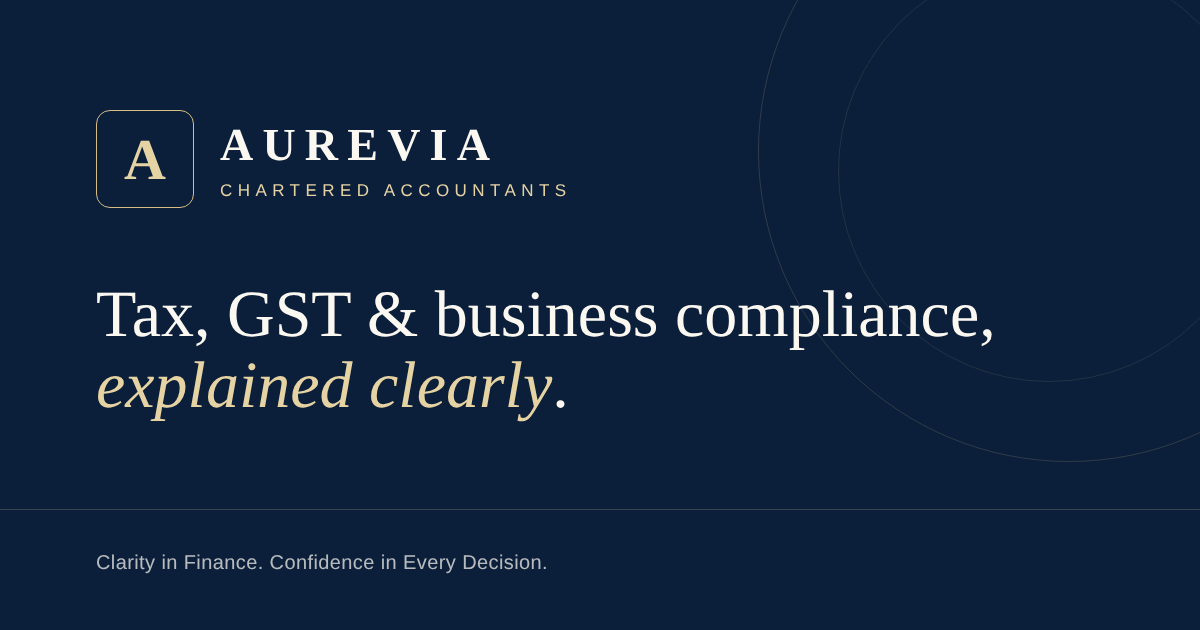
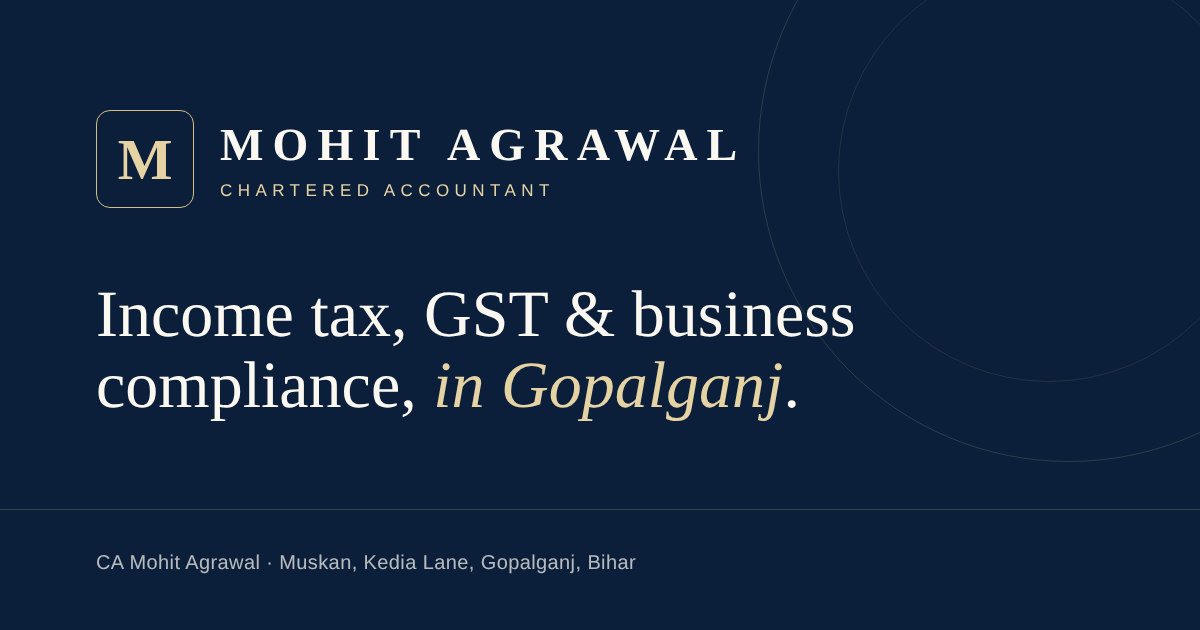
Adapt website for CA Mohit Agrawal, Gopalganj
Replace the AUREVIA placeholder identity with the firm's details from
its Google Business listing:

- Name, logo monogram (M), wordmark, tagline and copyright holder.
- Office address, Plus code map link, phone (+91 62990 33454) and the
  closing time (6:30 pm).
- Partner profile name. Qualifications and membership stay unpublished
  until verified.
- Favicon, Open Graph image and package name.

Still placeholders, so the WhatsApp buttons stay disabled in production:
the WhatsApp number (the listed number may be a landline), email, the
full weekly hours, prices (sample) and the service list. Google reviews
and the rating are intentionally not shown.

Claude-Session: https://claude.ai/code/session_01A1a9f2uhDVodubUkXH6cKA

diff --git a/src/config/siteConfig.js b/src/config/siteConfig.js
@@ -7,31 +7,34 @@
  *   '919876543210'. Any value containing letters (such as the 'XX' placeholder) counts as not configured.
  */
 export const siteConfig = {
-  firmName: 'AUREVIA Chartered Accountants',
-  shortName: 'AUREVIA',
-  tagline: 'Clarity in Finance. Confidence in Every Decision.',
+  firmName: 'CA Mohit Agrawal',
+  shortName: 'Mohit Agrawal',
+  tagline: 'Chartered Accountant · Gopalganj, Bihar',
   description:
-    'AUREVIA Chartered Accountants supports individuals, entrepreneurs and growing businesses with income tax, GST, accounting, TDS, business compliance and startup registrations.',
+    'CA Mohit Agrawal, Chartered Accountant in Gopalganj, Bihar, supports individuals and businesses with income tax, GST, accounting, TDS and business compliance.',
 
   logo: {
-    monogram: 'A',
-    wordmark: 'AUREVIA',
-    subtitle: 'Chartered Accountants',
+    monogram: 'M',
+    wordmark: 'MOHIT AGRAWAL',
+    subtitle: 'Chartered Accountant',
     // Optional image logo (for example '/logo.svg' placed in /public). When set, it replaces the monogram.
     image: '',
   },
 
+  // Not yet confirmed. The number listed on Google is a landline-style number, which may not be on WhatsApp.
   whatsappNumber: '91XXXXXXXXXX',
-  phone: '',
+  // Shown as listed on the Google Business profile (062990 33454), written in international format.
+  phone: '+91 62990 33454',
   email: '',
-  city: '',
-  officeAddress: '',
+  city: 'Gopalganj, Bihar',
+  officeAddress: 'Muskan, Kedia Lane, Town Thana, Gopalganj, Bihar 841428',
   // Canonical base URL without a trailing slash, for example 'https://www.example-firm.in'.
   websiteUrl: '',
-  businessHours: [{ days: 'Monday – Saturday', time: '' }],
-  // Google Maps embed URL (https://www.google.com/maps/embed?pb=…) and a link to the office on Google Maps.
-  mapEmbedUrl: '',
-  mapLink: '',
+  // Only the closing time is confirmed so far. Add the full weekly schedule once the firm provides it.
+  businessHours: [{ days: 'Opening hours', time: 'Closes 6:30 pm (full schedule to be confirmed)' }],
+  // Google Maps embed (Plus code FC7V+QC, Gopalganj) and a link to the office. Not yet checked in a browser.
+  mapEmbedUrl: 'https://maps.google.com/maps?q=FC7V%2BQC+Gopalganj+Bihar&output=embed',
+  mapLink: 'https://www.google.com/maps/search/?api=1&query=FC7V%2BQC+Gopalganj+Bihar',
   social: {
     linkedin: '',
     instagram: '',
@@ -52,11 +55,11 @@ export const siteConfig = {
 
   copyright: {
     year: 2026,
-    holder: 'AUREVIA Chartered Accountants',
+    holder: 'CA Mohit Agrawal',
   },
 
   seo: {
-    defaultTitle: 'AUREVIA Chartered Accountants | Tax, GST & Business Compliance',
+    defaultTitle: 'CA Mohit Agrawal | Chartered Accountant, Gopalganj',
     locale: 'en_IN',
     ogImage: '/og-image.png',
     twitterHandle: '',

diff --git a/src/data/content.js b/src/data/content.js
@@ -60,7 +60,7 @@ export const principles = [
 
 export const aboutContent = {
   intro: [
-    'AUREVIA Chartered Accountants works with individuals, entrepreneurs and growing businesses on the financial and compliance work that needs to be right the first time.',
+    'CA Mohit Agrawal works with individuals, entrepreneurs and growing businesses in Gopalganj on the financial and compliance work that needs to be right the first time.',
     'We keep the work organised, the scope clear and the communication simple, so that clients can focus on what they are building.',
   ],
   specialisations: [
@@ -80,9 +80,9 @@ export const aboutContent = {
 // Partner profile. Keep verified=false until qualifications, membership and experience have been checked.
 // When verified is false, the About page shows a placeholder instead of these details.
 export const teamProfile = {
-  name: 'Partner profile to be added',
+  name: 'CA Mohit Agrawal',
   role: 'Chartered Accountant',
-  bio: 'A short introduction to the partner, including areas of focus and experience, will appear here once verified.',
+  bio: 'A short introduction, including areas of focus and experience, will appear here once it has been confirmed with the firm.',
   qualifications: [],
   membership: '',
   verified: false,

diff --git a/README.md b/README.md
@@ -1,4 +1,4 @@
-# AUREVIA Chartered Accountants: website template
+# CA Mohit Agrawal: website
 
 A React and Vite website for a Chartered Accountant firm. Visitors explore services, compare plans and start an
 enquiry on WhatsApp. The site is built to be re-branded for another firm by editing configuration and data files,
